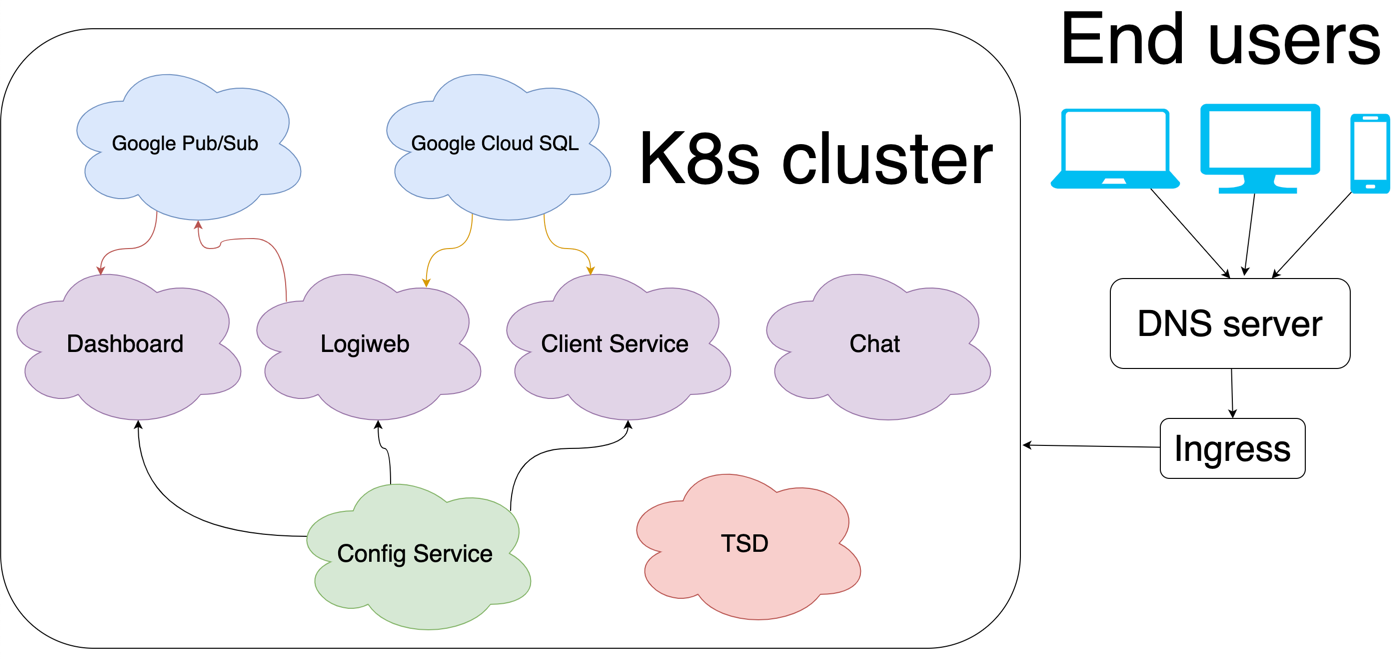
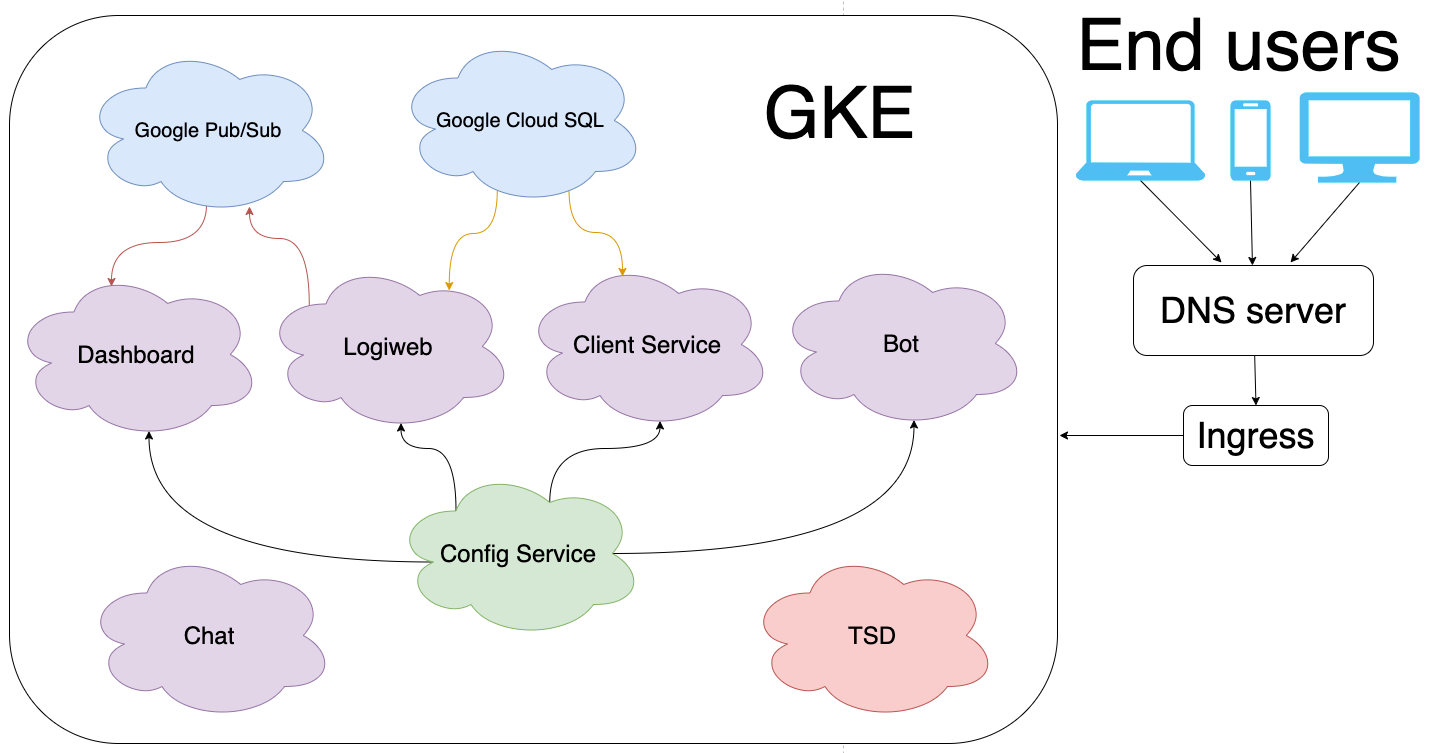
Add telegram bot section, change summary image

diff --git a/docs/microservices/telegram-bot-service.md b/docs/microservices/telegram-bot-service.md
@@ -1,0 +1,71 @@
+<h1 align="center">
+<img src="https://www.logo.wine/a/logo/Telegram_(software)/Telegram_(software)-Logo.wine.svg" style="margin-left: 25px" alt="MkDocs icon" width="170">
+<br>Telegram bot
+</h1>
+
+## Description
+Finally, our clients would probably want to keep track of their orders, 
+but no one wants to always visit website. For that, I registered a telegram bot called "Logiweb Bot"
+which allows users to check their order status.
+<!-- https://shields.io/ -->
+
+## Project structure
+The project structure is pretty much like in Chat Application. 
+Bot also written on kotlin and the same maven configuration is used.
+
+#### Bot API
+In order to use bot and synchronize it with telegram server, I should first include the following dependency:
+```xml
+<dependency>
+    <groupId>org.telegram</groupId>
+    <artifactId>telegrambots-spring-boot-starter</artifactId>
+    <version>4.1</version>
+</dependency>
+```
+
+And then activate the context by calling `ApiContextInitializer.init()`:
+```kotlin
+@SpringBootApplication
+class TelegramBotApplication {
+    companion object {
+        @JvmStatic
+        fun main(args: Array<String>) {
+            ApiContextInitializer.init()
+            runApplication<TelegramBotApplication>(*args)
+        }
+    }
+}
+```
+
+The only thing left to do is to extend **TelegramLongPollingBot** class 
+and pass *name* and *token* of our bot:
+```kotlin
+@Service
+class LogiwebBotService : TelegramLongPollingBot() {
+
+    @Value("\${telegram.botName}")
+    private val botName: String = ""
+
+    @Value("\${telegram.token}")
+    private val token: String = ""
+    
+    override fun getBotUsername(): String = botName
+
+    override fun getBotToken(): String = token
+
+    override fun onUpdateReceived(update: Update) {
+        // Some code when user update is received
+    }
+}
+```
+
+It's done now, our bot is working and can be accessed from telegram:
+
+
+## Technology stack
+<dl>
+<li>Spring Boot</li>
+<li>Kotlin</li>
+<li>Telegram Bot API</li>
+<li>Maven</li>
+</dl>
